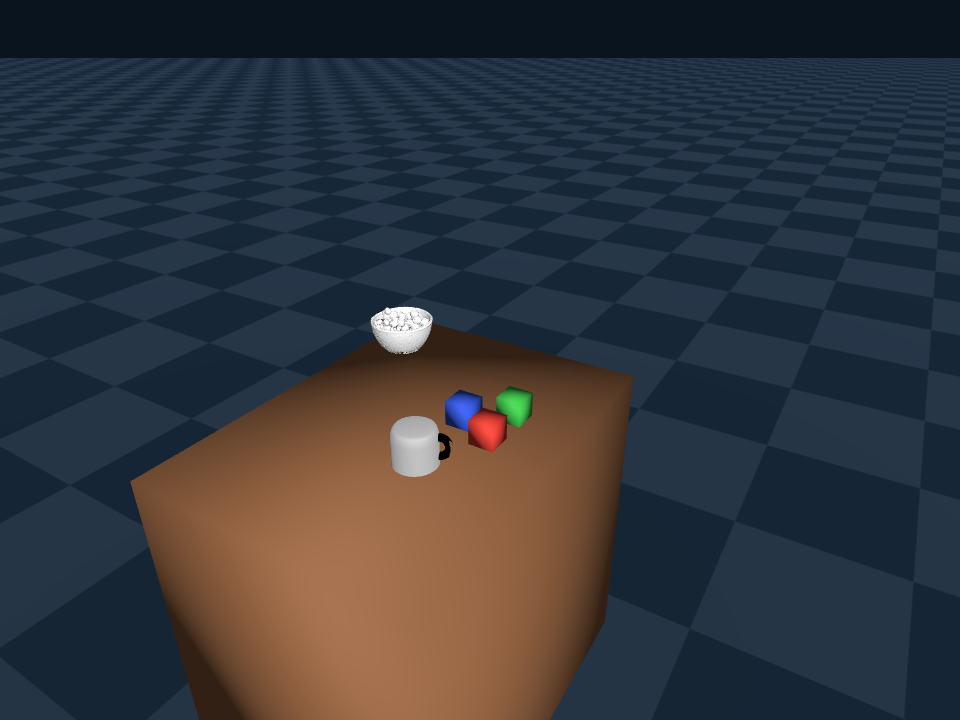
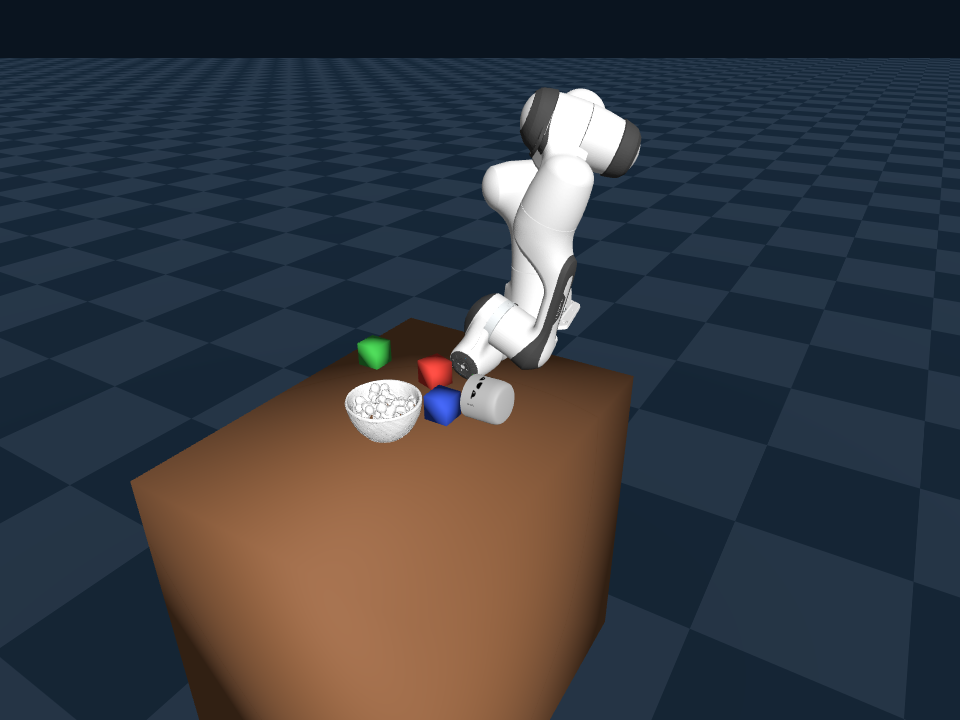
update scene screenshots after fixing Franka base position (r3, MI300X)
Made-with: Cursor

Changed region(s): [[0.3438, 0.1222, 0.6875, 0.6722]]

diff --git a/README-en.md b/README-en.md
@@ -40,7 +40,7 @@ End-to-end pipeline from 3D assets to robot behavior data: **Gen2Sim → Scene R
 <p align="center">
   <img src="images/scene_overview.png" width="600" alt="tabletop_simple scene — Franka + random objects">
   <br>
-  <em>tabletop_simple scene: collision-aware random placement (Genesis). Note: robot pose not yet calibrated — showing scene layout only.</em>
+  <em>tabletop_simple scene: Franka arm + collision-aware random placement (Genesis, MI300X)</em>
 </p>
 
 ## Quick start

diff --git a/README.md b/README.md
@@ -41,7 +41,7 @@
 <p align="center">
   <img src="images/scene_overview.png" width="600" alt="tabletop_simple scene — Franka + random objects">
   <br>
-  <em>tabletop_simple 场景：碰撞感知随机摆放 (Genesis)。注：机械臂位姿尚未校准，仅展示场景布局。</em>
+  <em>tabletop_simple 场景：Franka 机械臂 + 碰撞感知随机摆放 (Genesis, MI300X)</em>
 </p>
 
 ## 快速上手
